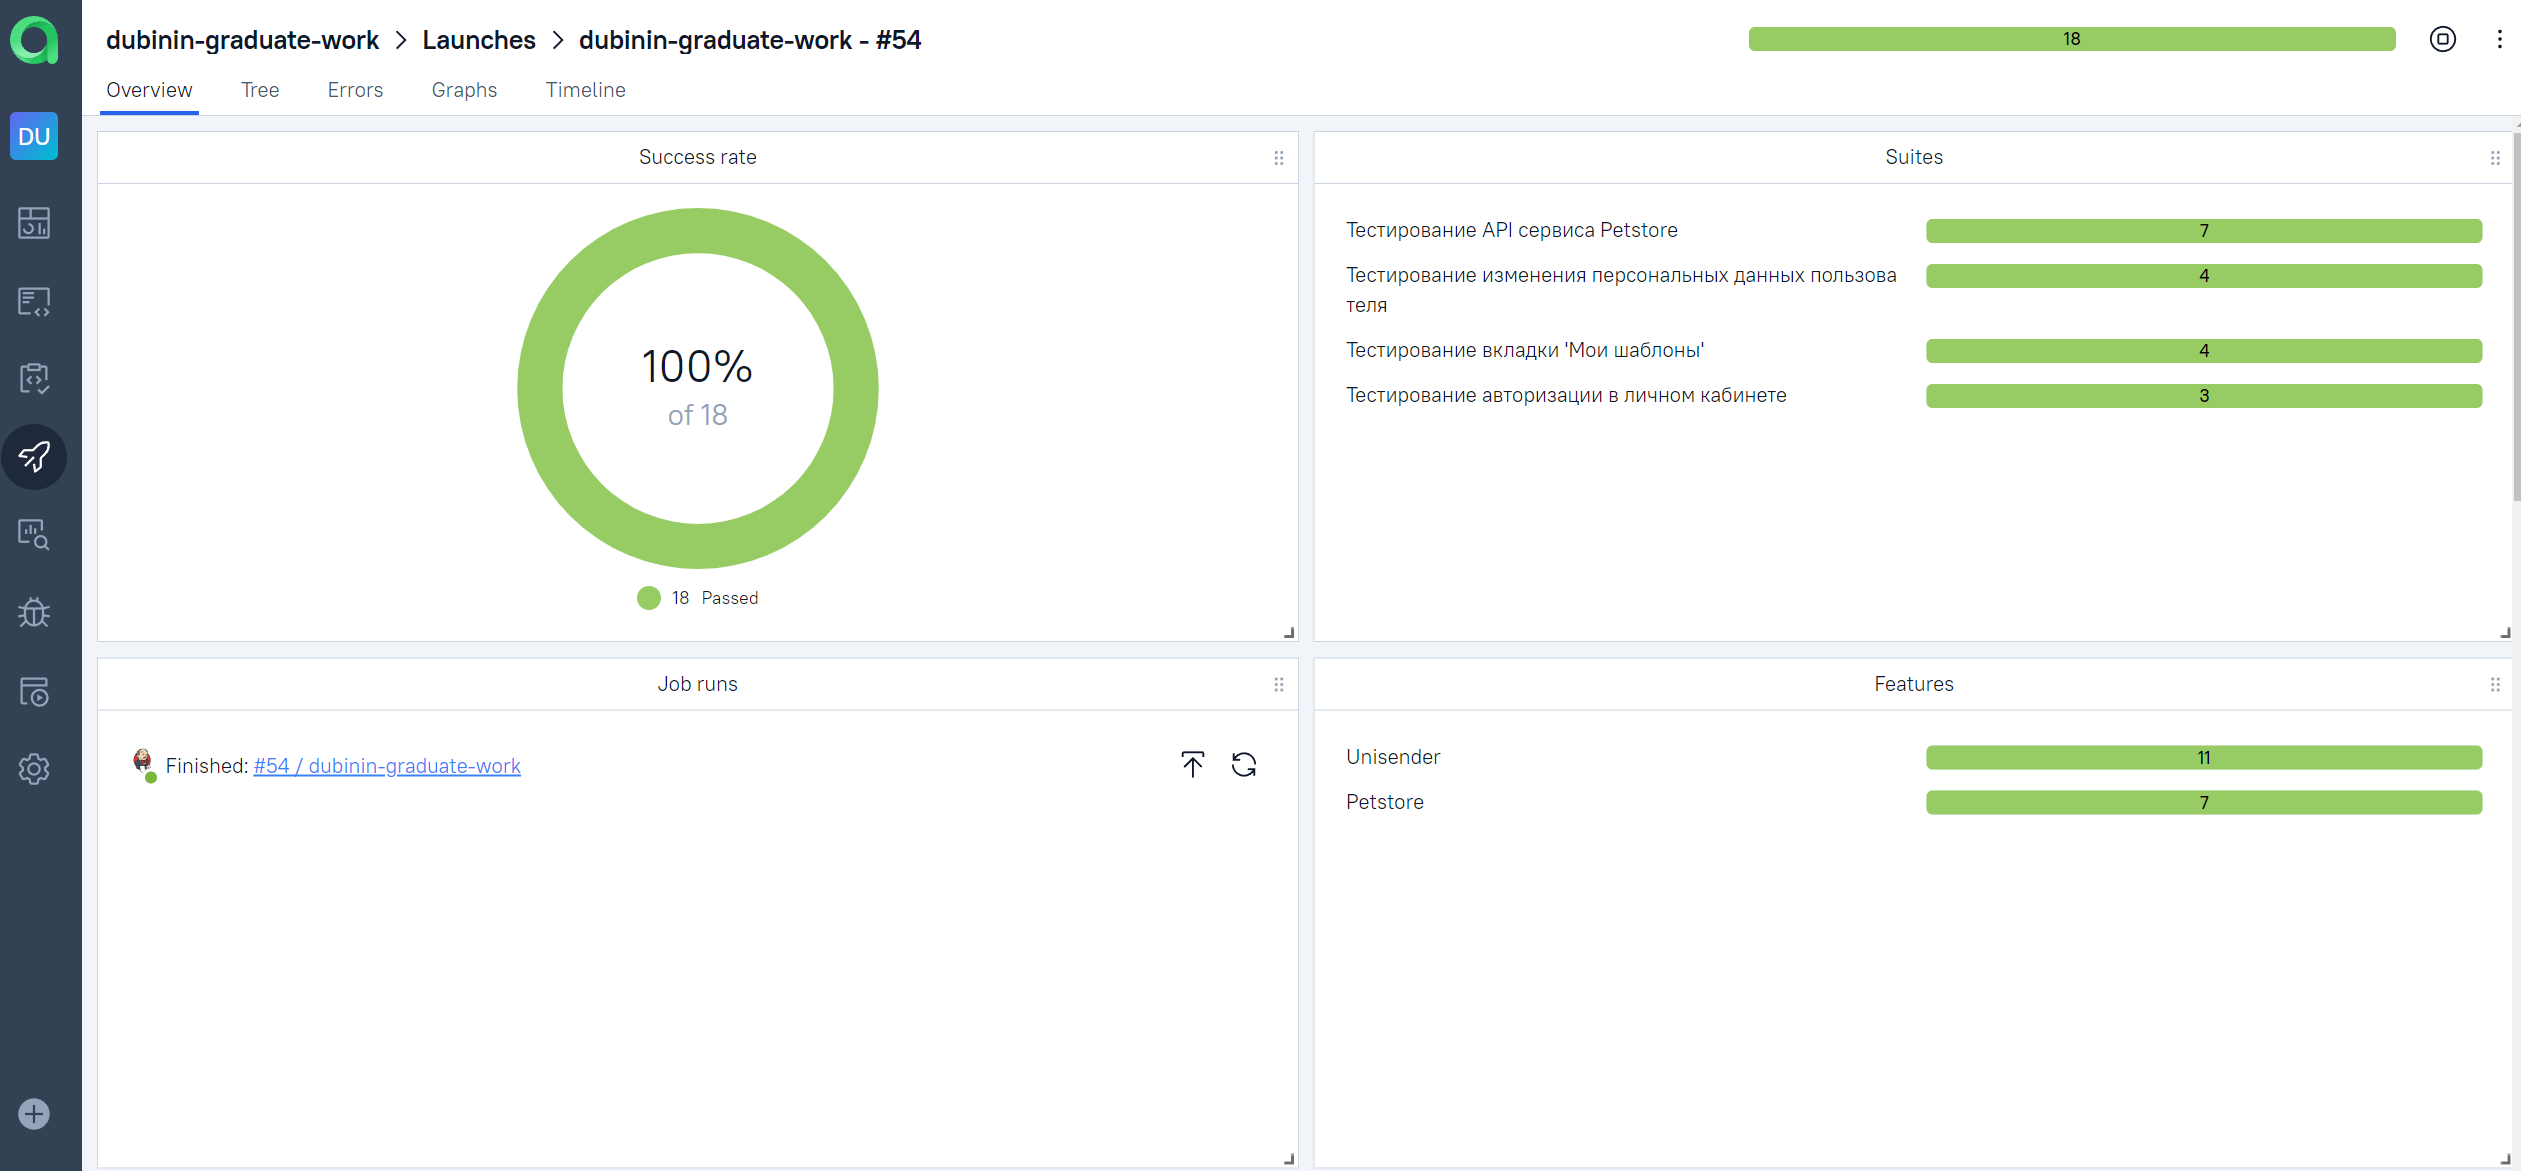
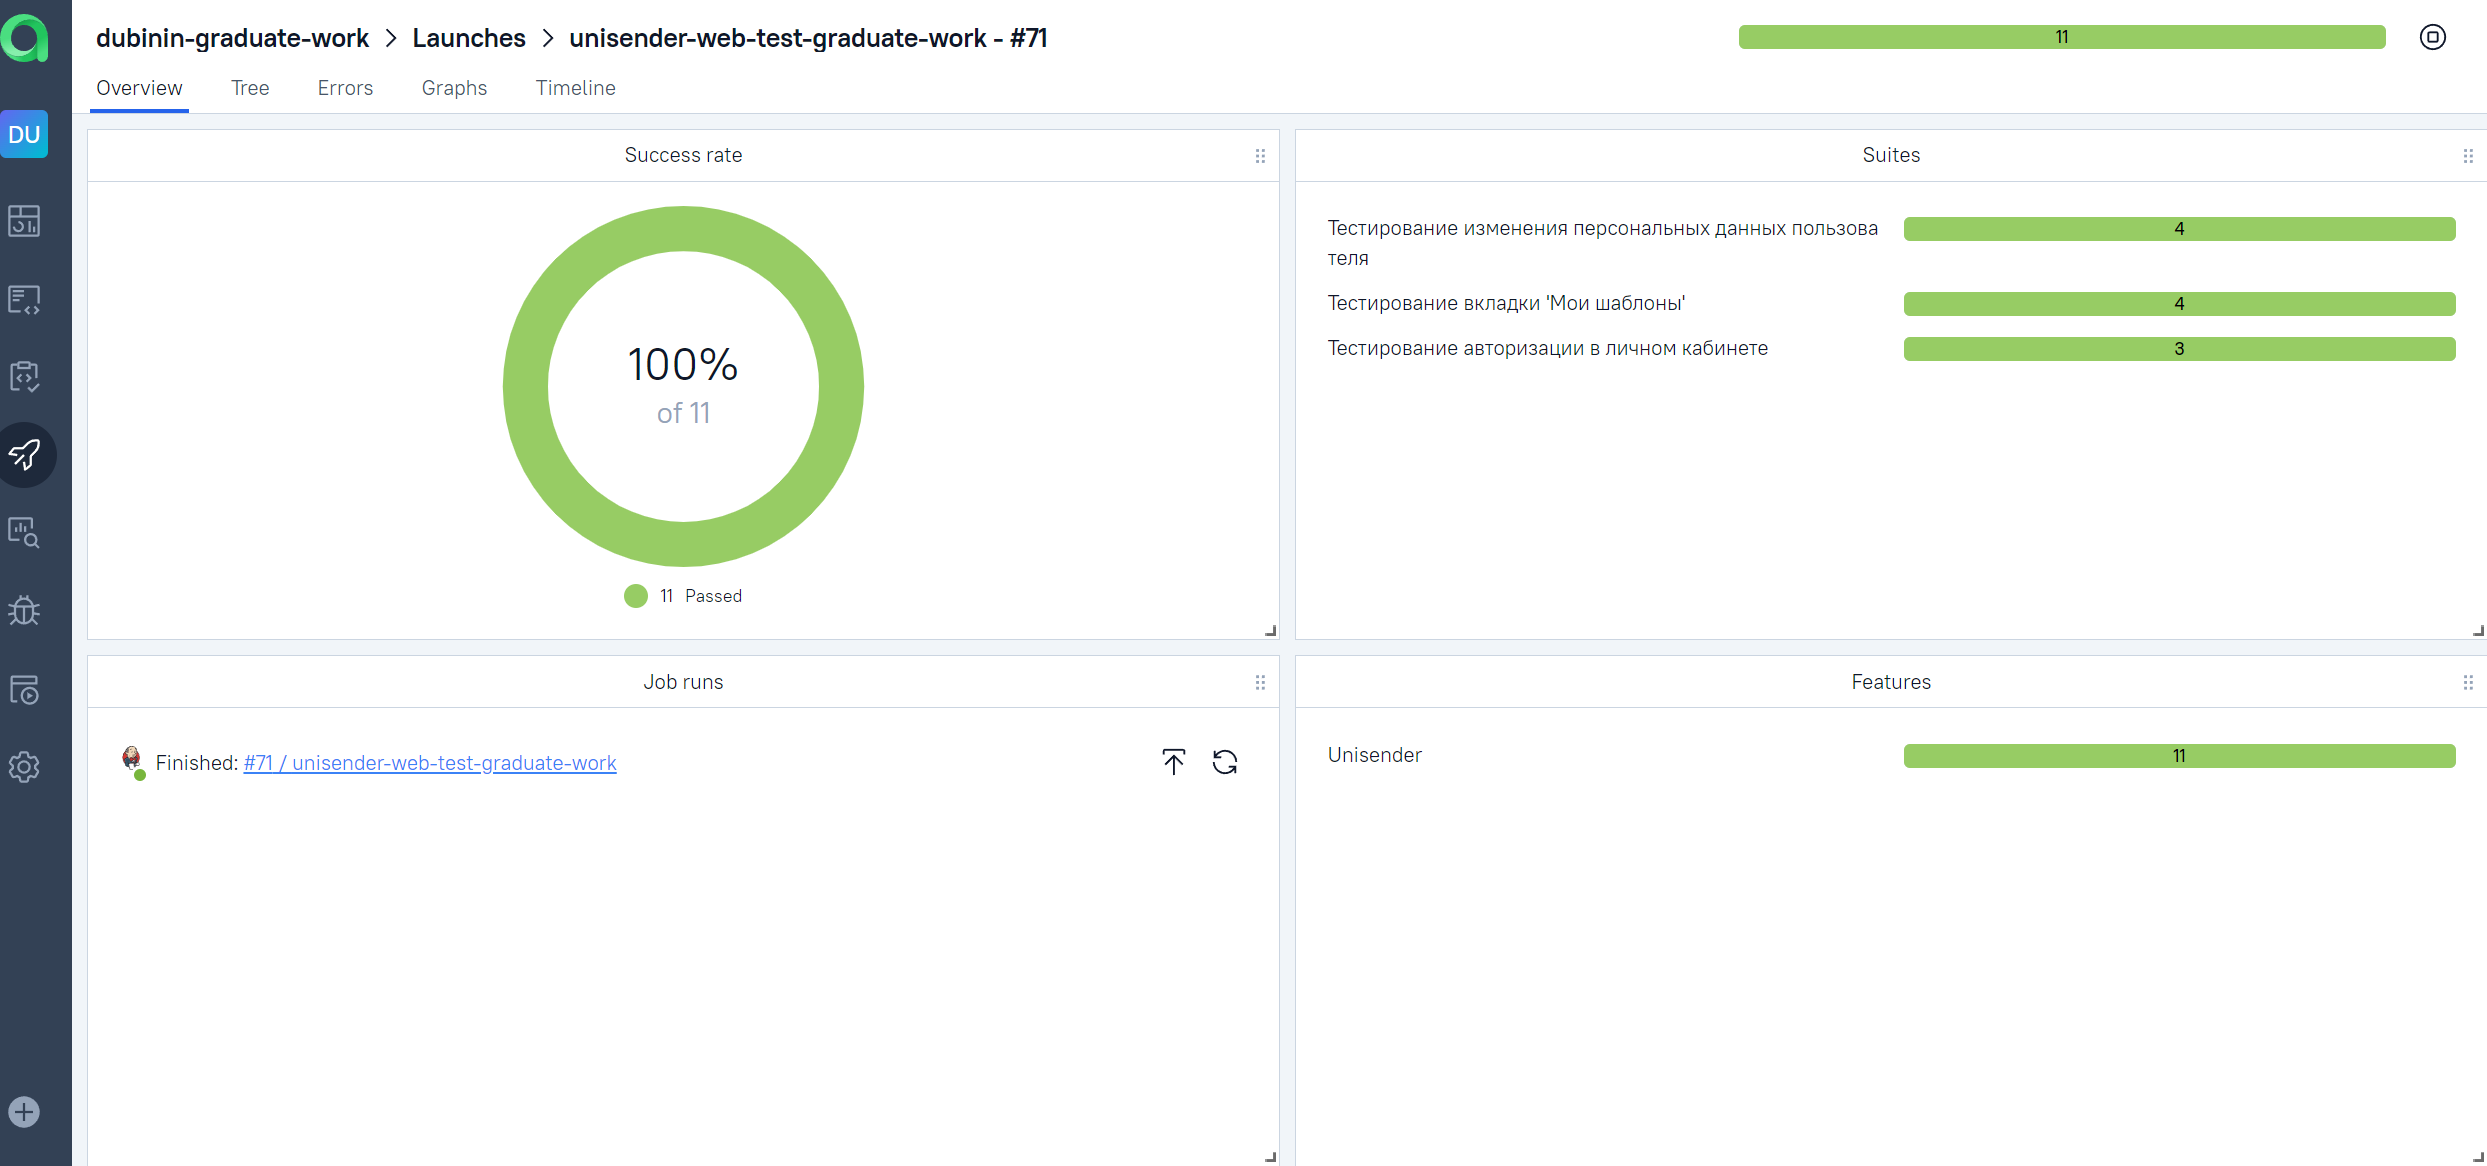
add readme

diff --git a/README.md b/README.md
@@ -1,7 +1,6 @@
-# <span style="color: white"> Дипломая работа по автоматизации тестовых сценариев на UI сайта [Unisender](https://www.unisender.com/) и API сервиса [Petstore](https://petstore.swagger.io/) </span>
+# <span style="color: white"> Дипломая работа по автоматизации тестовых сценариев на UI сайта [Unisender](https://www.unisender.com/)</span>
 
 #### Unisender — маркетинговый сервис для email-рассылок и не только. В нём есть множество инструментов для маркетинга - управление списками подписчиков, A/B тесты, сегментация, создание форм подписки, рассылки не только email, но и SMS, и Viber — приходите и пользуйтесь.
-#### Petstore — образец приложения, которое можно использовать для практики REST-запросов. Этот сайт имитирует онлайн-зоомагазин, и пользователи могут добавлять и получать информацию о своих питомцах.
 <p align="center">
 <img title="Jenkins Build" src="media/readme/unisender.jpg">
 </p>
@@ -11,52 +10,42 @@
 ## :pushpin: Содержание:
 
 - [Использованный стек технологий](#computer-использованный-стек-технологий)
-- [Запуск тестов из терминала](#arrow_forward-запуск-тестов-из-терминала)
-- [Сборка в Jenkins](#сборка-в-jenkins)
-- [Пример Allure-отчета](#пример-allure-отчета)
-- [Уведомления в Telegram с использованием бота](#уведомления-в-telegram-с-использованием-бота)
-- [Видео примера запуска тестов в Selenoid](#-видео-примера-запуска-теста-в-selenoid)
+- [Сборка в Jenkins](#-сборка-в-jenkins)
+- [Пример Allure-отчета](#-пример-allure-отчета)
+- [Интеграция с Allure TestOps](#-интеграция-с-allure-testops)
+- [Интеграция с Jira](#-интеграция-с-jira)
+- [Уведомления в Telegram с использованием бота](#-уведомления-в-telegram-с-использованием-бота)
 
 ## :computer: Использованный стек технологий
 
 <p align="center">
-<img width="6%" title="IntelliJ IDEA" src="media/readme/Intelij_IDEA.svg">
-<img width="6%" title="Java" src="media/readme/Java.svg">
-<img width="6%" title="Selenide" src="media/readme/Selenide.svg">
-<img width="6%" title="Selenoid" src="media/readme/Selenoid.svg">
-<img width="6%" title="Allure Report" src="media/readme/Allure_Report.svg">
-<img width="5%" title="Allure TestOps" src="media/readme/AllureTestOps.svg">
-<img width="6%" title="Gradle" src="media/readme/Gradle.svg">
-<img width="6%" title="JUnit5" src="media/readme/JUnit5.svg">
-<img width="6%" title="GitHub" src="media/readme/GitHub.svg">
-<img width="6%" title="Jenkins" src="media/readme/Jenkins.svg">
-<img width="6%" title="Telegram" src="media/readme/Telegram.svg">
-<img width="5%" title="Jira" src="media/readme/Jira.svg">
+<a href="https://www.jetbrains.com/idea/"><img width="6%" title="IntelliJ IDEA" src="media/readme/Intelij_IDEA.svg"></a>
+<a href="https://www.java.com/"><img width="6%" title="Java" src="media/readme/Java.svg"></a>
+<a href="https://ru.selenide.org/"><img width="6%" title="Selenide" src="media/readme/Selenide.svg"></a>
+<a href="https://aerokube.com/selenoid/latest/"><img width="6%" title="Selenoid" src="media/readme/Selenoid.svg"></a>
+<a href="https://docs.qameta.io/allure-report/"><img width="6%" title="Allure Report" src="media/readme/Allure_Report.svg"></a>
+<a href="https://qameta.io/"><img width="5%" title="Allure TestOps" src="media/readme/AllureTestOps.svg"></a>
+<a href="https://gradle.org/"><img width="6%" title="Gradle" src="media/readme/Gradle.svg"></a>
+<a href="https://junit.org/junit5/docs/current/user-guide/"><img width="6%" title="JUnit5" src="media/readme/JUnit5.svg"></a>
+<a href="https://github.com/"><img width="6%" title="GitHub" src="media/readme/GitHub.svg"></a>
+<a href="https://www.jenkins.io/"><img width="6%" title="Jenkins" src="media/readme/Jenkins.svg"></a>
+<a href="https://telegram.org/?1"><img width="6%" title="Telegram" src="media/readme/Telegram.svg"></a>
+<a href="https://www.atlassian.com/ru/software/jira"><img width="5%" title="Jira" src="media/readme/Jira.svg"></a>
 </p>
 
-- В данном проекте автотесты написаны на языке <code>Java</code> с использованием фреймворка для тестирования <code>Selenide</code>.
+- В данном проекте автотесты написаны на языке <code>Java</code> с использованием фреймворка для тестирования <code>Selenide</code> и платформы <code>JUnit 5</code>.
 - В качестве сборщика был использован - <code>Gradle</code>.
-- Для тестирования WEB UI использованы фреймворки <code>JUnit 5</code> и [Selenide](https://selenide.org/).
-- Для тестирования API использованы фреймворки <code>REST Assured</code> и <code>Lombock</code>.
 - При прогоне тестов браузер запускается в [Selenoid](https://aerokube.com/selenoid/).
 - Для удаленного запуска реализована параметризированная джоба в <code>Jenkins</code> с формированием Allure-отчета и отправкой результатов в <code>Telegram</code> при помощи бота.
 - Осуществлена интеграция с <code>Allure TestOps</code> и <code>Jira</code>
-
-Содержание Allure-отчета:
-* Шаги теста;
-* Скриншот страницы на последнем шаге;
-* Page Source;
-* Логи браузерной консоли;
-* Видео выполнения автотеста.
 
 ## :arrow_forward: Запуск автотестов
 
 ### Запуск тестов из терминала
 
 ```
-clean remote_test 
 clean
-${TASK}
+remote_test
 -Dremote=${REMOTE_DRIVER_URL}
 -Dbrowser=${BROWSER}
 -DbrowserSize=${BROWSER_SIZE}
@@ -64,12 +53,9 @@ ${TASK}
 
 ### <img src="media/readme/param.svg" title="Параметры сборки" width="4%"/> Параметры сборки
 
-* <code>TASK</code> – задача на прогон тестов. Варианты: WEB, API, Regress.
 * <code>REMOTE_DRIVER_URL</code> – адрес удаленного сервера, на котором будут запускаться тесты.
 * <code>BROWSER</code> – браузер, в котором будут выполняться тесты. По-умолчанию - <code>chrome</code>.
 * <code>BROWSER_SIZE</code> – размер окна браузера, в котором будут выполняться тесты.
-
-
 
 ## <img src="media/readme/Jenkins.svg" title="Jenkins" width="4%"/> Сборка в Jenkins
 <p align="center">
@@ -105,13 +91,15 @@ ${TASK}
 
 После завершения сборки, бот созданный в <code>Telegram</code>, автоматически обрабатывает и отправляет сообщение с результатом.
 
-| ALL PASSED                            | WITH FAILED AND SKIPPED                |
-|---------------------------------------|----------------------------------------|
+| ALL PASSED                            | WITH FAILED                |
+|---------------------------------------|---------------------------------------|
 | ![pos](media/readme/notification.png) | ![neg](media/readme/notification2.png) |
 
-## <img src="media/readme/numer.svg" title="Видео примера запуска тестов в Selenoid" width="4%"/> Видео примера запуска тестов в Selenoid
+## <img src="media/readme/numer.svg" title="Видео прохождения тестов в Selenoid" width="4%"/> Видео примера запуска тестов в Selenoid
 
 К каждому тесту в отчете прилагается видео прогона.
+
+Пример прохождения теста на создание шаблона:
 <p align="center">
   <img title="Selenoid Video" src="media/readme/video.gif">
 </p>
